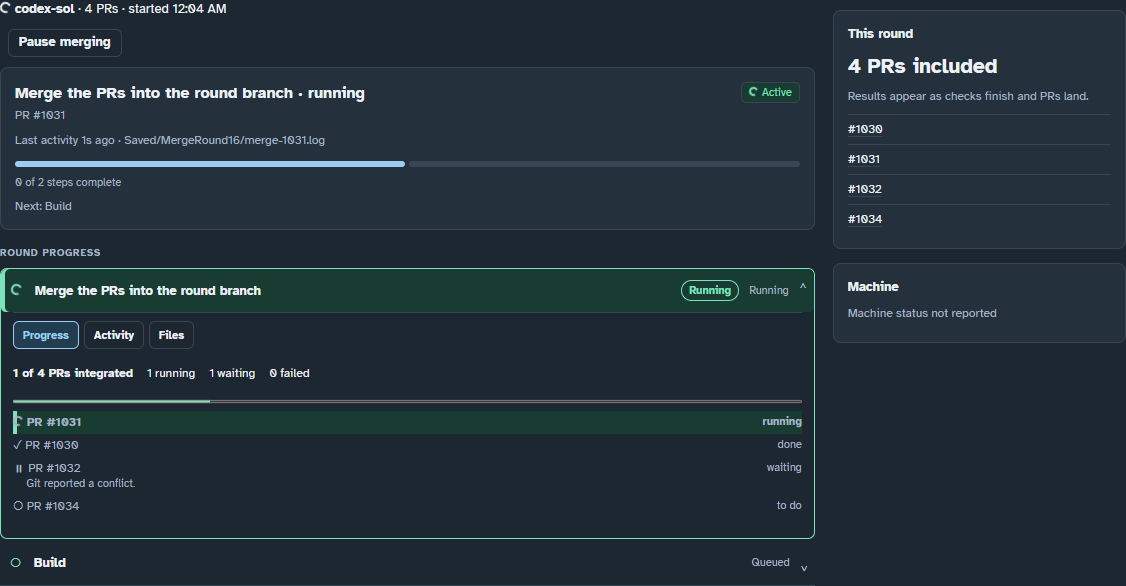
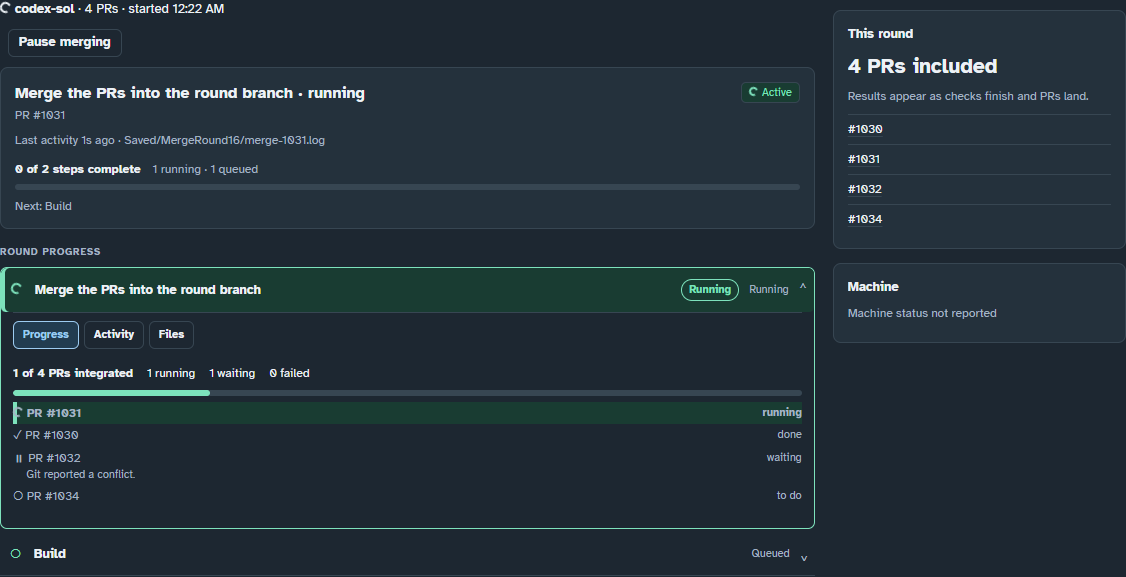
Label round progress and show one completion bar

diff --git a/ui/index.html b/ui/index.html
@@ -648,12 +648,13 @@
   .merge-health.quiet, .merge-health.possibly_stuck { color: var(--blocked); background: var(--blocked-bg); }
   .merge-health.failed { color: var(--failed); background: var(--failed-bg); }
   .merge-subline, .merge-next { color: var(--muted); font-size: 12px; margin: 8px 0 0; }
-  .merge-progress { display: flex; gap: 4px; margin: 12px 0 8px; height: 6px; }
-  .merge-progress i { flex: 1; border-radius: 3px; background: var(--rule); }
-  .merge-progress i.done { background: var(--running); }
-  .merge-progress i.running { background: var(--queued); }
-  .merge-progress i.failed { background: var(--failed); }
-  .merge-progress-label { color: var(--muted); font-size: 11px; }
+  .merge-progress { margin-top: 12px; }
+  .merge-progress-label { display: flex; flex-wrap: wrap; gap: 3px 12px; align-items: baseline; font-size: 12px; }
+  .merge-progress-counts { color: var(--muted); }
+  .merge-meter { display: block; width: 100%; height: 6px; margin: 6px 0; appearance: none; border: 0; border-radius: 99px; overflow: hidden; background: var(--rule); }
+  .merge-meter::-webkit-progress-bar { background: var(--rule); }
+  .merge-meter::-webkit-progress-value { background: var(--running); border-radius: 99px; }
+  .merge-meter::-moz-progress-bar { background: var(--running); border-radius: 99px; }
   .round-section-label { color: var(--muted); text-transform: uppercase; font-size: 10px; letter-spacing: .08em; margin: 8px 0; }
   .merge-now .msteps { display: block; margin: 0; padding: 0; }
   .merge-now .msteps > li { border: 0; margin: 0; padding: 0; border-radius: 0; color: var(--ink); opacity: 1; font-weight: 400; }
@@ -677,7 +678,6 @@
   @keyframes merge-spin { to { transform: rotate(360deg); } }
   @media (prefers-reduced-motion: reduce) { .merge-spinner { animation: none; } }
   .merge-check-detail { display: block; margin-inline-start: 1.2em; font-size: 11px; color: var(--muted); }
-  .merge-check-meter { width: 100%; height: 7px; accent-color: var(--running); }
   .done .merge-step-icon, .check-done { color: var(--running); }
   .running .merge-step-icon, .check-running { color: var(--running); }
   .failed .merge-step-icon, .check-failed { color: var(--failed); }
@@ -1235,7 +1235,7 @@ function mergeStepHtml(s, i, mv, current, mark, word) {
   const prChecks = s.check_kind === "merge_prs";
   const completedChecks = checks.filter(c => c.state === "done").length;
   const checkSummary = prChecks && checks.length
-    ? `<p class="merge-check-summary"><strong>${completedChecks} of ${checks.length} PRs integrated</strong><span>${runningChecks.length} running</span><span>${checks.filter(c => c.state === "waiting").length} waiting</span><span>${failedChecks.length} failed</span></p><progress class="merge-check-meter" aria-label="PRs integrated" value="${completedChecks}" max="${checks.length}"></progress>`
+    ? `<p class="merge-check-summary"><strong>${completedChecks} of ${checks.length} PRs integrated</strong><span>${runningChecks.length} running</span><span>${checks.filter(c => c.state === "waiting").length} waiting</span><span>${failedChecks.length} failed</span></p><progress class="merge-meter" aria-label="PRs integrated" value="${completedChecks}" max="${checks.length}"></progress>`
     : s.state === "running" && checks.length ? `<p class="merge-check-summary"><strong>${checks.filter(c => c.state === "done").length} of ${checks.length} passed</strong><span>${runningChecks.length} running</span><span>${failedChecks.length} failed</span></p>` : "";
   const badge = s.required !== false && ["running", "failed"].includes(s.state)
     ? `<span class="merge-step-badge">${s.state === "running" ? "Running" : "Failed"}</span>` : "";
@@ -1245,6 +1245,19 @@ function mergeStepHtml(s, i, mv, current, mark, word) {
   const checksHtml = checks.length ? `<ul class="merge-checks">${displayedChecks.map(c => `<li class="check-${esc(c.state)}"><span>${c.state === "running" && s.required !== false ? MERGE_SPINNER : mark[c.state] || "○"} ${esc(c.name)}${c.message ? `<small class="merge-check-detail">${esc(c.message)}</small>` : ""}</span><span class="check-state">${esc(word[c.state] || c.state || "Not reported")}${typeof c.duration_seconds === "number" ? ` · ${esc(durationText(c.duration_seconds))}` : ""}</span></li>`).join("")}</ul>` : `<p class="merge-empty">${esc(s.state === "done" ? "Completed. No individual check results were reported." : s.state === "todo" ? "Queued. Waiting for earlier checks to finish." : "Individual check results have not been reported yet.")}</p>`;
   const filesHtml = files.length ? `<ul class="merge-side-prs">${files.map(f => `<li>${f.url && /^\/api\/merge\/log\?/.test(f.url) ? `<a href="${esc(f.url)}" target="_blank" rel="noopener">${esc(f.name)} ↗</a>` : esc(f.name || "File")}</li>`).join("")}</ul>` : `<p class="merge-empty">No output files reported for this step.</p>`;
   return `<li class="${s.required === false ? "previous-candidate" : esc(s.state)}"><details class="merge-step" data-step-key="${esc(key)}"${open ? " open" : ""}><summary data-merge-focus="step-${i}"><span class="merge-step-icon" aria-hidden="true">${s.state === "running" && s.required !== false ? MERGE_SPINNER : mark[s.state] || "○"}</span><span class="merge-step-label">${esc(s.name)}${s.required === false ? " (previous candidate)" : ""}</span><span class="sr"> (${esc(word[s.state] || s.state)})</span>${badge}<span class="merge-step-time">${s.required === false ? "Excluded" : esc(mergeStepTime(s))}</span></summary><div class="merge-step-body"><div class="merge-step-tabs" role="group" aria-label="Step details">${["progress", "activity", "files"].map(t => `<button type="button" data-step-tab="${t}" data-merge-focus="step-${i}-${t}" aria-pressed="${tab === t}">${t[0].toUpperCase()+t.slice(1)}</button>`).join("")}</div>${meta ? `<p class="merge-step-meta">${esc(meta)}</p>` : ""}${s.message || s.note ? `<p>${esc(s.message || s.note)}</p>` : ""}<div${tab === "progress" ? "" : " hidden"} data-step-panel="progress">${checkSummary}${prChecks ? checksHtml : mergeActivityHtml(activity.slice(-4)) + checksHtml}</div><div${tab === "activity" ? "" : " hidden"} data-step-panel="activity">${mergeActivityHtml(activity)}</div><div${tab === "files" ? "" : " hidden"} data-step-panel="files">${filesHtml}</div>${log && /^\/api\/merge\/log\?/.test(log.url) ? `<a class="merge-log-link" href="${esc(log.url)}" target="_blank" rel="noopener">Open full log ↗</a>` : ""}</div></details></li>`;
+}
+
+function roundProgressHtml(steps) {
+  if (!steps.length) return "";
+  const counts = {done: 0, running: 0, waiting: 0, todo: 0, failed: 0};
+  for (const step of steps) counts[step.state]++;
+  const remainder = [["running", "running"], ["waiting", "waiting"], ["todo", "queued"], ["failed", "failed"]]
+    .filter(([key]) => counts[key]).map(([key, label]) => counts[key] + " " + label).join(" · ");
+  return `<div class="merge-progress">
+    <div class="merge-progress-label"><strong>${counts.done} of ${steps.length} steps complete</strong>
+      ${remainder ? `<span class="merge-progress-counts">${remainder}</span>` : ""}</div>
+    <progress class="merge-meter" aria-label="Required round steps complete" value="${counts.done}" max="${steps.length}"></progress>
+  </div>`;
 }
 
 function durationText(seconds) {
@@ -1468,7 +1481,6 @@ function renderStatus(d) {
     const activity = mv.activity || {};
     const activityAt = activity.updated;
     const activeCheck = currentStep && (currentStep.checks || []).find(c => c.state === "running");
-    const completed = requiredSteps.filter(s => s.state === "done").length;
     const health = failedSteps.length ? "failed" : activity.health || (mv.stale ? "possibly_stuck" : "unknown");
     const checkpointOnly = activity.source === "Progress checkpoint";
     const healthText = {active: checkpointOnly ? "Recent update" : "Active", quiet: "Quiet · check activity", possibly_stuck: "May be stuck", unknown: "Activity not reported", failed: "Landing blocked"}[health] || "Activity not reported";
@@ -1477,7 +1489,7 @@ function renderStatus(d) {
     const latestUpdate = headlineMatches ? mv.headline : mv.note || currentStep?.message;
     const nextStep = headlineMatches || failedSteps.length ? mv.next
       : requiredSteps.slice(requiredSteps.indexOf(currentStep) + 1).find(s => s.state === "todo")?.name;
-    box.innerHTML = currentStep ? `<div class="merge-live ${failedSteps.length ? "failed" : ""}"><div class="merge-live-heading"><div class="round-status"><b>${esc(currentStep.name)}</b> · ${esc(word[currentStep.state] || currentStep.state)}${activeCheck ? `<small>${esc(activeCheck.name)}</small>` : ""}${mv.started ? `<small>${ago(mv.started)} elapsed in this round</small>` : ""}</div><span class="merge-health ${esc(health)}">${currentStep.state === "running" ? MERGE_SPINNER + " " : ""}${esc(healthText)}</span></div><p class="merge-subline">${activityAt ? `${checkpointOnly ? "Status updated" : "Last activity"} ${esc(ago(activityAt))} ago` : mv.updated ? `Status updated ${esc(ago(mv.updated))} ago` : "Waiting for the first progress update"}${activity.source ? ` · ${esc(activity.source)}` : ""}</p><div class="merge-progress" aria-hidden="true">${requiredSteps.map(s => `<i class="${esc(s.state)}"></i>`).join("")}</div><div class="merge-progress-label">${completed} of ${requiredSteps.length} steps complete</div>${nextStep ? `<p class="merge-next">Next: ${esc(nextStep)}</p>` : ""}</div>` : (ma ? "" : esc(mv.headline || "No merge round running."));
+    box.innerHTML = currentStep ? `<div class="merge-live ${failedSteps.length ? "failed" : ""}"><div class="merge-live-heading"><div class="round-status"><b>${esc(currentStep.name)}</b> · ${esc(word[currentStep.state] || currentStep.state)}${activeCheck ? `<small>${esc(activeCheck.name)}</small>` : ""}${mv.started ? `<small>${ago(mv.started)} elapsed in this round</small>` : ""}</div><span class="merge-health ${esc(health)}">${currentStep.state === "running" ? MERGE_SPINNER + " " : ""}${esc(healthText)}</span></div><p class="merge-subline">${activityAt ? `${checkpointOnly ? "Status updated" : "Last activity"} ${esc(ago(activityAt))} ago` : mv.updated ? `Status updated ${esc(ago(mv.updated))} ago` : "Waiting for the first progress update"}${activity.source ? ` · ${esc(activity.source)}` : ""}</p>${roundProgressHtml(requiredSteps)}${nextStep ? `<p class="merge-next">Next: ${esc(nextStep)}</p>` : ""}</div>` : (ma ? "" : esc(mv.headline || "No merge round running."));
     if (failedSteps.length) {
       const reported = steps.filter(s => s.state === "running" && s.required !== false).map(s => s.name);
       box.insertAdjacentHTML("beforeend", `<p class="round-recovery" role="status"><b>Landing blocked.</b> Fletchery must repair or exclude the failing PRs, then rerun affected checks on the remaining candidate. Each PR gets one bounded repair attempt.${reported.length ? `<br>Reported activity: ${esc(reported.join(", "))}. This does not clear the failed check.` : ""}</p>`);

diff --git a/docs/WORK-MERGE-PACKAGE.md b/docs/WORK-MERGE-PACKAGE.md
@@ -6,6 +6,11 @@
 details →** opens **Merging** for the full checklist, logs, and scheduled windows.
 On a narrow window, the cards stack.
 
+The round summary shows one progress bar for completed required steps and
+labels the remaining steps as **running**, **waiting**, **queued**, or
+**failed**. The current step and **Next** name the work above and below the bar.
+Previous-candidate steps stay in the checklist for context.
+
 In **Merging**, expand a row under **Round progress**. **Progress** shows the
 substeps Fletchery has received. While **Merge the PRs into the round branch**
 runs, each PR has its own row and the counter shows how many are integrated.
